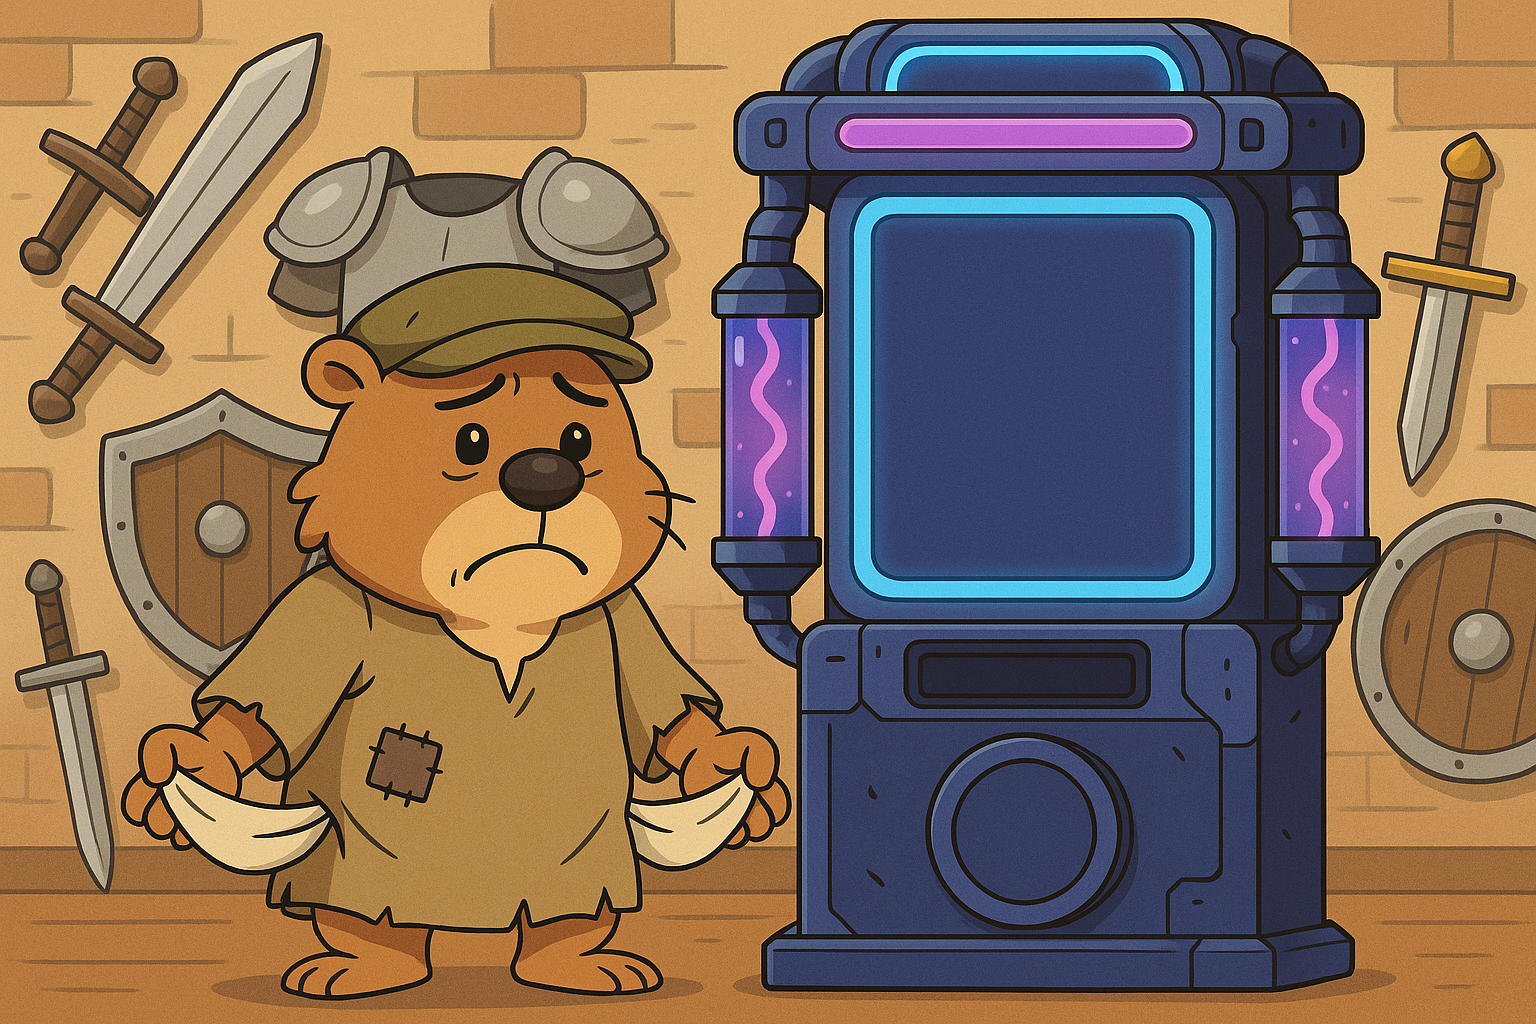
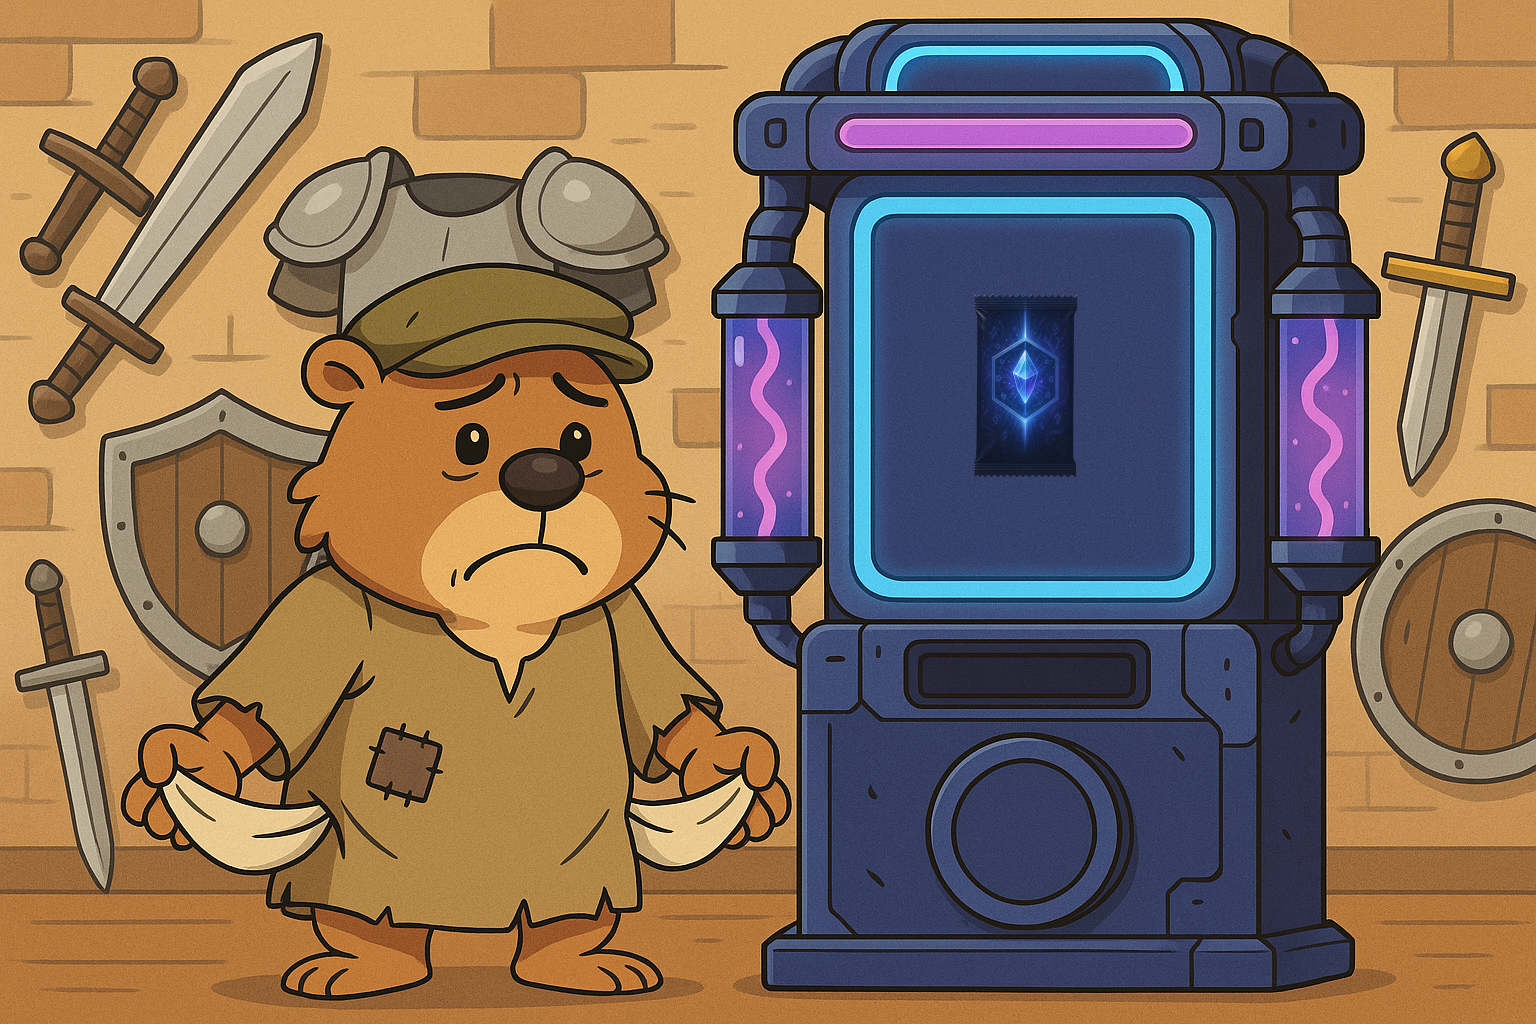
ajustement

Changed region(s): [[0.625, 0.2812, 0.7188, 0.4688]]

diff --git a/public/css/slot-machine.css b/public/css/slot-machine.css
@@ -50,22 +50,27 @@
     border-radius: 4px;
 }
 
-/* Design principal de la machine */
 .slot-machine {
     position: relative;
-    width: 400px;
-    height: 300px;
+    height: 671px;
     margin: 0 auto;
-    background: linear-gradient(135deg, #3a3a3c 0%, #1a1a1c 100%);
-    border-radius: 15px;
-    border: 8px solid #ffd700;
-    box-shadow: 0 10px 30px rgba(0, 0, 0, 0.3), inset 0 0 15px rgba(0, 0, 0, 0.5);
-    display: flex;
-    flex-direction: column;
-    justify-content: space-between;
-    padding: 20px;
-    overflow: hidden;
+    background-image: url('/img/illustrations/slot-machine.png');
+    background-size: contain;
+    background-repeat: no-repeat;
+    background-position: center;
 }
+
+.slot-window {
+    position: absolute;
+    top: 183px;
+    left: 51%;
+    transform: translateX(-50%);
+    width: 200px;
+    height: 233px;
+    overflow: hidden;
+    border-radius: 4px;
+}
+
 
 /* Écran d'affichage des items */
 .slot-display {
@@ -78,14 +83,6 @@
     border: 4px solid #999;
 }
 
-.slot-window {
-    position: relative;
-    height: 100%;
-    overflow: hidden;
-    display: flex;
-    justify-content: center;
-    align-items: center;
-}
 
 /* Ombres en haut et en bas de la fenêtre de slot */
 .slot-window:before, .slot-window:after {
@@ -122,8 +119,8 @@
 
 /* Style de chaque item de slot */
 .slot-item {
-    width: 120px;
-    height: 120px;
+    width: 190px;
+    height: 123px;
     display: flex;
     justify-content: center;
     align-items: center;

diff --git a/public/js/app/slot-machine.js b/public/js/app/slot-machine.js
@@ -7,7 +7,7 @@ const SLOT_ITEMS = [
     {
         id: 'booster-common',
         name: 'Booster Commun',
-        image: '/img/booster-standard.svg',
+        image: '/img/booster/booster-commun.png',
         probability: 0.30,
         type: 'win',
         category: 'booster'
@@ -15,7 +15,7 @@ const SLOT_ITEMS = [
     {
         id: 'booster-rare',
         name: 'Booster Rare',
-        image: '/img/booster-premium.svg',
+        image: '/img/booster/booster-rare.png',
         probability: 0.10,
         type: 'win',
         category: 'booster'
@@ -23,7 +23,7 @@ const SLOT_ITEMS = [
     {
         id: 'booster-epic',
         name: 'Booster Épique',
-        image: '/img/booster-ultimate.svg',
+        image: '/img/booster/booster-epic.png',
         probability: 0.05,
         type: 'win',
         category: 'booster'
@@ -40,7 +40,7 @@ const SLOT_ITEMS = [
     {
         id: 'lose',
         name: 'Perdu',
-        image: '/illustrations/rekt.png',
+        image: '/img/illustrations/rekt.png',
         probability: 0.50,
         type: 'lose',
         category: 'none'
